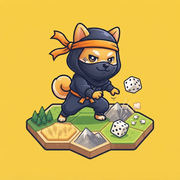
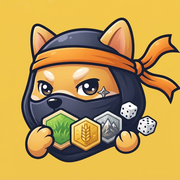
アイコンを基準の型（胸から上・土地タイルとサイコロ）に作り直し

diff --git a/index.html b/index.html
@@ -13,9 +13,9 @@
 <meta name="robots" content="index,follow,max-image-preview:large">
 <meta name="theme-color" content="#e8843a">
 <!-- WEBNINJA_UNIFIED_FAVICON -->
-<link rel="icon" type="image/png" sizes="32x32" href="/favicon.png">
-<link rel="icon" type="image/png" sizes="192x192" href="/favicon-192.png">
-<link rel="apple-touch-icon" sizes="180x180" href="/apple-touch-icon.png">
+<link rel="icon" type="image/png" sizes="32x32" href="/favicon.png?v=2">
+<link rel="icon" type="image/png" sizes="192x192" href="/favicon-192.png?v=2">
+<link rel="apple-touch-icon" sizes="180x180" href="/apple-touch-icon.png?v=2">
 
 <meta property="og:type" content="website">
 <meta property="og:title" content="カタンの点数計算・サイコロの確率表・初期配置｜勝利点の数え方（ファンが作った非公式ツール）">
